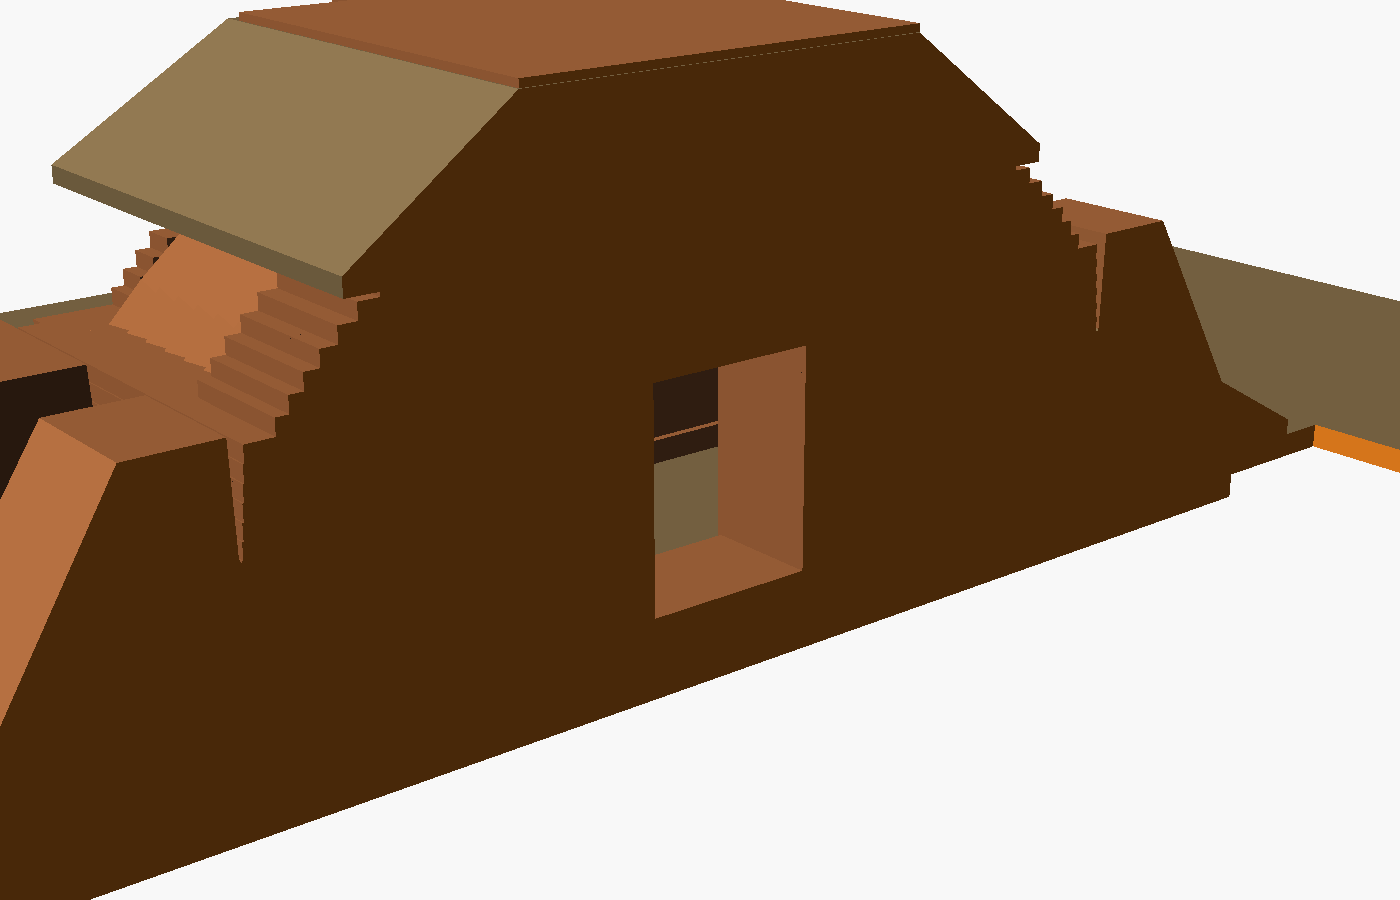
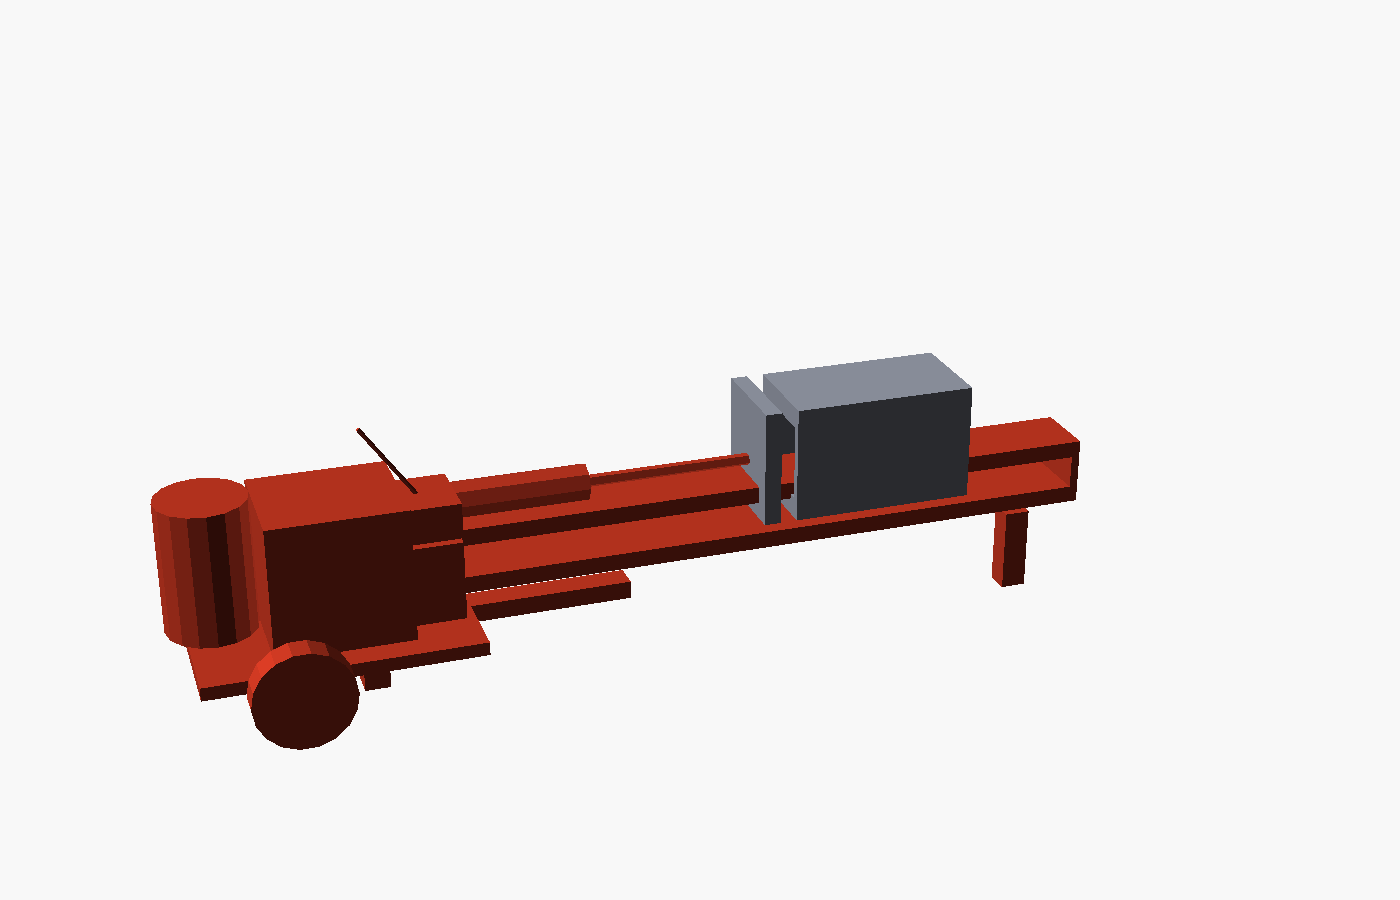
Hero = press render; add exploded mold view to Design

diff --git a/docs/design.md b/docs/design.md
@@ -20,6 +20,8 @@ flowchart LR
 
 ## The mold — the one built part
 
+![Exploded view of the mold weldment: box, platen, eject door, brick](images/mold-exploded.png)
+
 - **Bore**: 3/8–1/2″ plate, ~⅛″ oversize on the largest product; bolt-in liner sets
   change product size — one master bore, swap liners
 - **Platen**: ~1″ plate, 1/16″ under bore, stub shaft to the cylinder nose

diff --git a/docs/index.md b/docs/index.md
@@ -4,7 +4,7 @@ title: Summary
 
 # Splitter CEB Press
 
-![What we're building with it — a vaulted earth gatehouse](images/hero.jpg)
+![The press: stock splitter beam + cylinder + power pack, mold box bolted on the end](images/hero.jpg)
 
 **Status:** Design complete — pre-build
 
